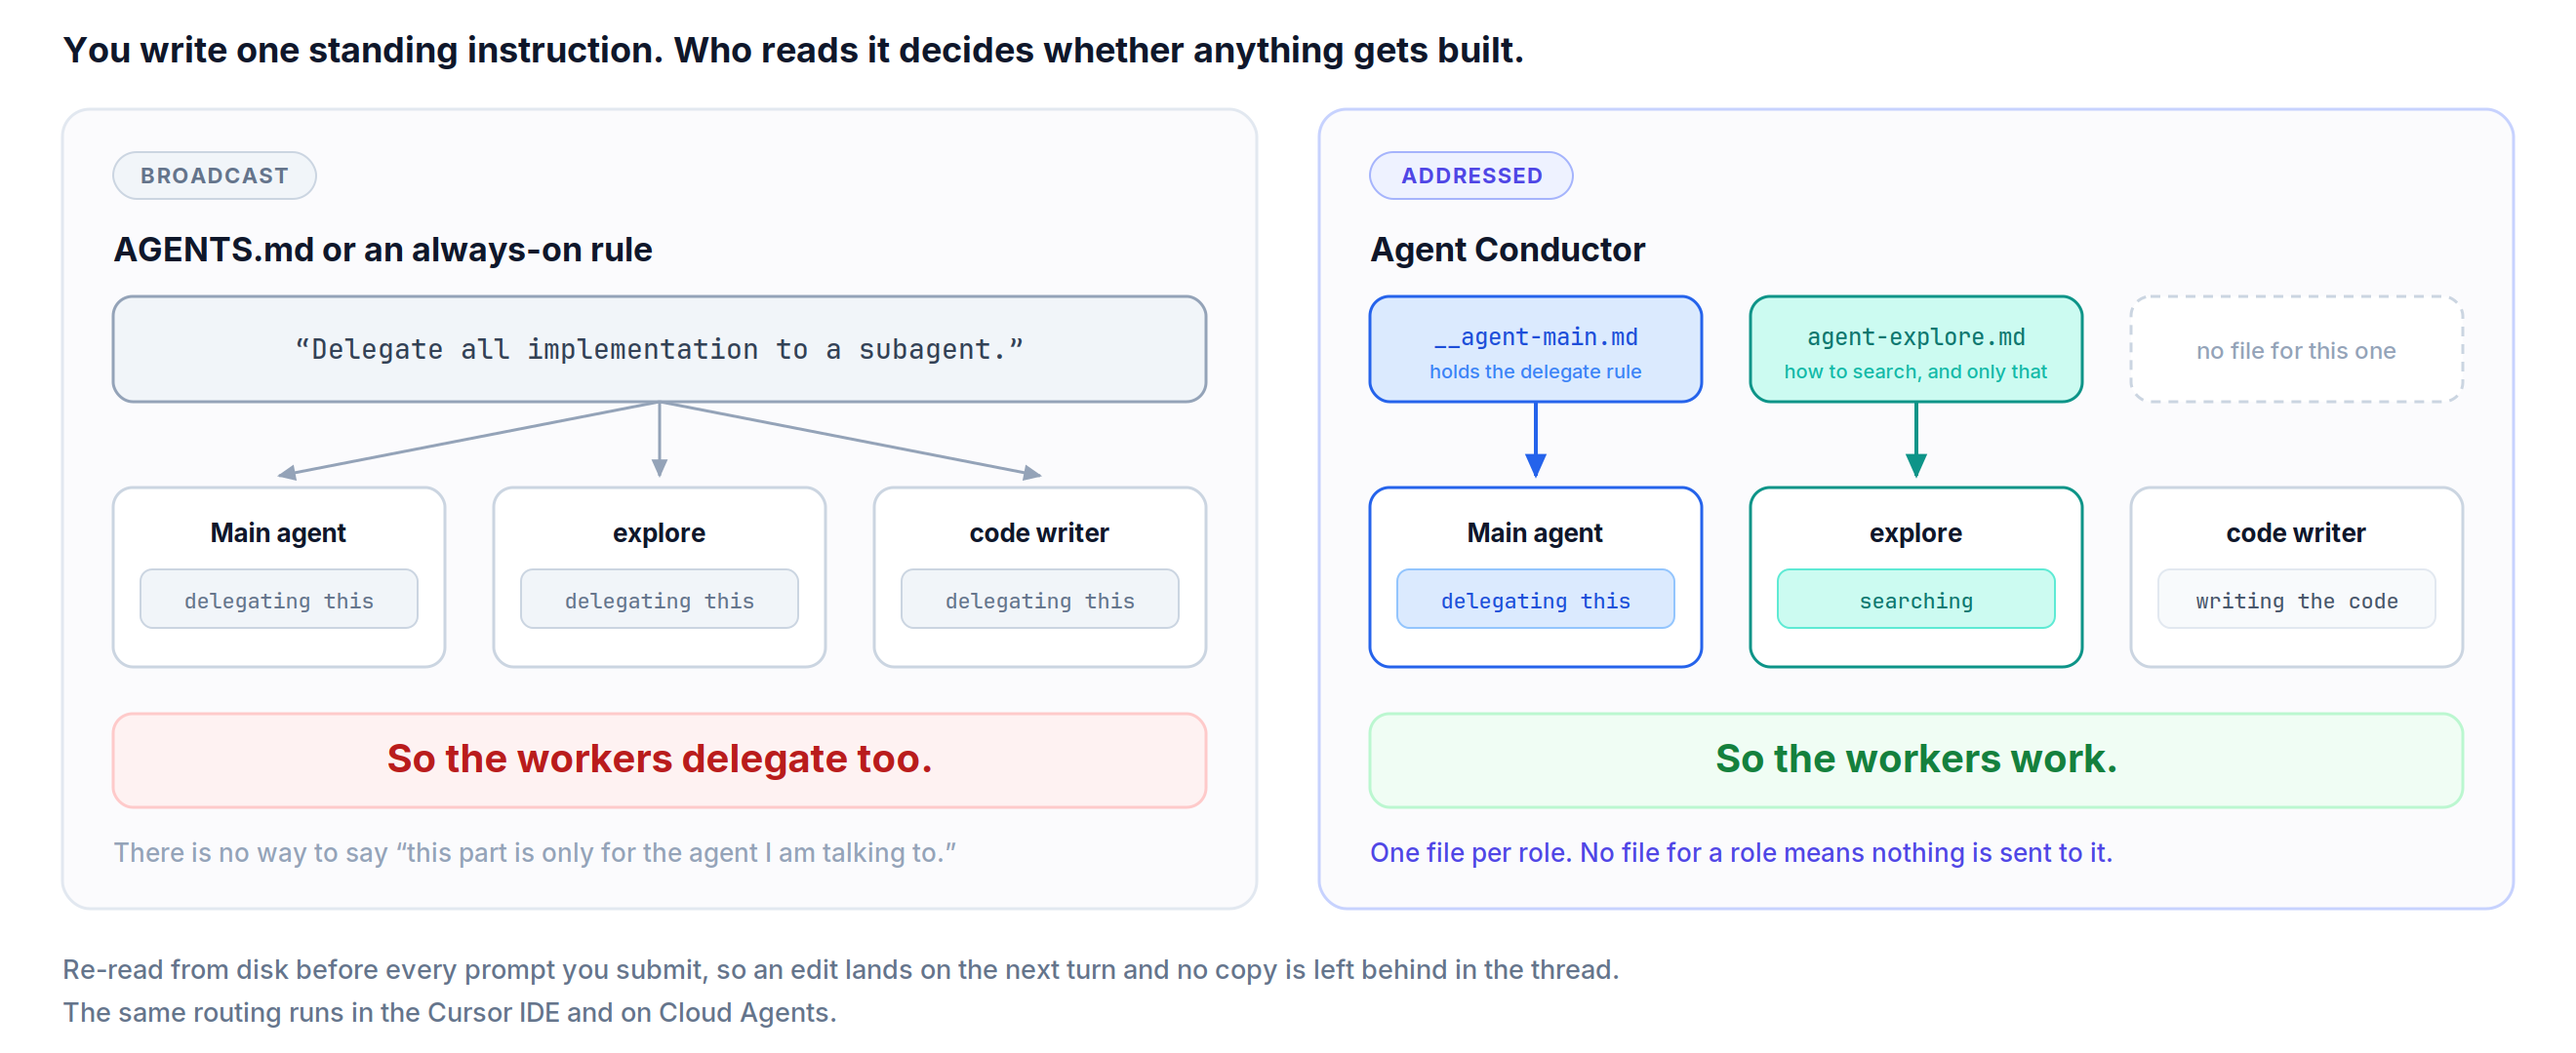
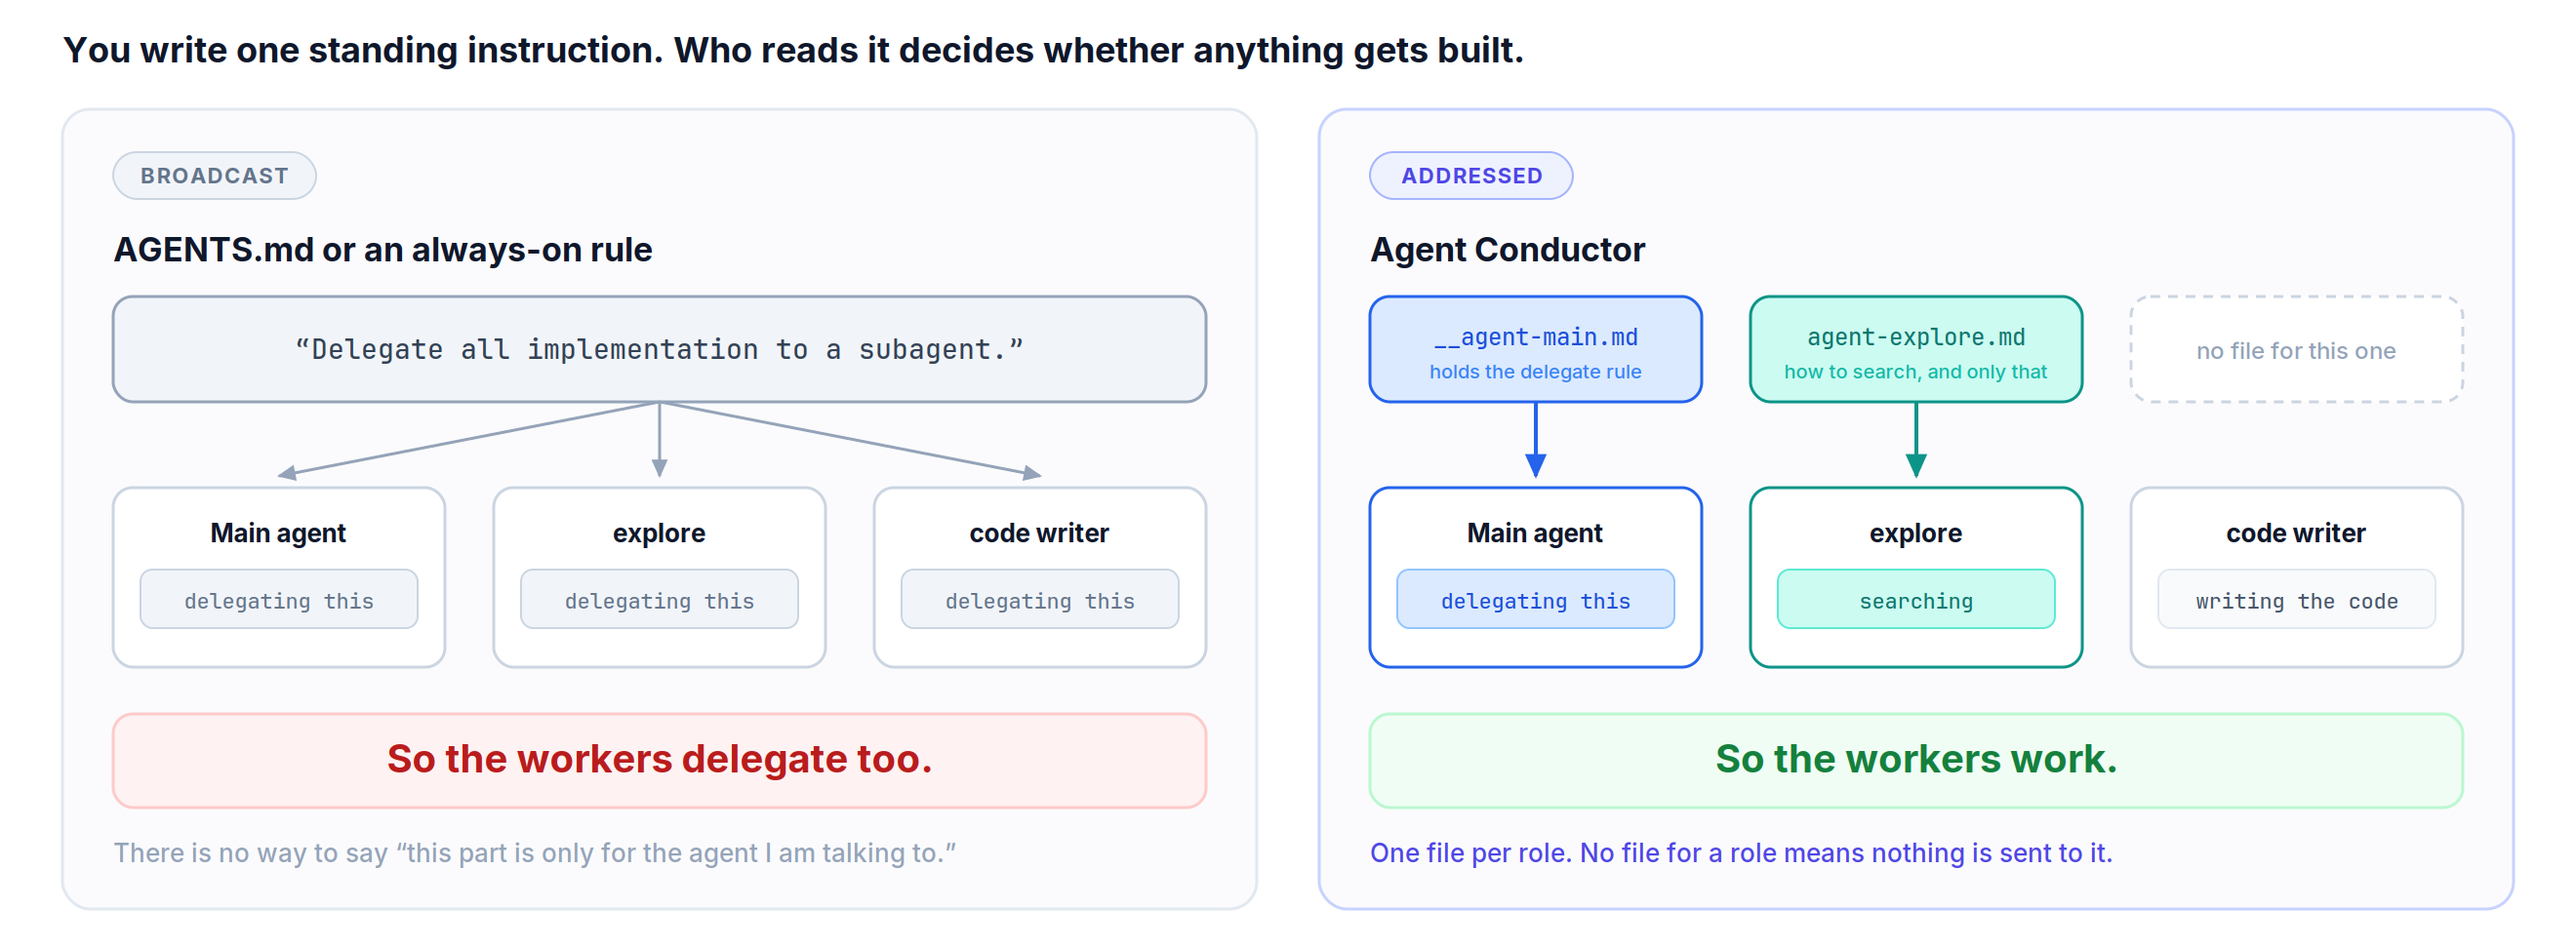
Put the problem in the tagline and strip the unreadable footer
The previous tagline was accurate and inert. A reader who confirmed the
secrecy misread was fixed then named the replacement defect exactly: it states
a mechanism without a motive, so it does no work until the paragraph below
explains why broadcast is bad. The tagline now carries the problem in its
first clause and the fix in its second.

All four readers across the last two rounds flagged the diagram's two grey
footer lines. They restated body copy sitting a few pixels below them, and at
GitHub's render width they are too small to read anyway. Removing them also
takes 54px of dead height out of the hero image.

Six of eight readers tripped on the double underscore in __agent-main.md, so
the pattern agent-<type>.md now comes first and the reserved name reads as the
exception it is rather than an inconsistency.

diff --git a/plugins/agent-conductor/README.md b/plugins/agent-conductor/README.md
@@ -1,6 +1,6 @@
 # Agent Conductor
 
-**Give your main agent a standing prompt that goes to it and no other agent.**
+**Every instruction you write reaches every agent you run. These reach the one you meant.**
 
 Cursor has two places for instructions that apply on every turn, a rule with `alwaysApply` and an `AGENTS.md`. Both are broadcasts. The agent you are talking to reads them. So does every subagent it spawns.
 
@@ -204,8 +204,10 @@ Default show hides thinking; see the footer for optional flags.
 
 | Scrubbed | Detail |
 | --- | --- |
-| Known token formats | `sk-`, `ghp_`, `gho_`, `gha_`, `github_pat_`, `xoxb-` and friends, `ops_`, JWTs |
-| Assignments that name a secret | any `*KEY*`, `*TOKEN*`, `*SECRET*`, `*PASSWORD*`, `*CREDENTIAL*`, `*API*` variable, value replaced with `[REDACTED]` |
+| Known token formats | `crsr_` (Cursor), `sk-` (OpenAI and Anthropic), `sk_live_` and `rk_live_` (Stripe), `ghp_`, `gho_`, `gha_`, `ghr_`, `ghs_`, `ghu_`, `github_pat_`, `npm_`, `xoxb-` and friends, `ops_`, `AKIA` and `ASIA` (AWS key ids), `AIza` (Google), JWTs |
+| Assignments that name a secret | any `*KEY*`, `*TOKEN*`, `*SECRET*`, `*PASSWORD*`, `*CREDENTIAL*`, `*API*` variable, plus lowercase `password=`, value replaced with `[REDACTED]` |
+| Syntax that carries a credential | `Authorization: Bearer`, `Basic` and `token` headers, `--token`, `--api-key`, `--secret` and `--password` style flags, `-u user:password`, and `user:password@host` inside any URL |
+| Private keys | the body of any `-----BEGIN ... PRIVATE KEY-----` block |
 | Fields scanned for secrets | strings nested under `command`, `prompt`, `tool_input`, `tool_output`, `output`, `text`, and `error_message` |
 | File contents | `content` dropped from `beforeReadFile`; `old_string` and `new_string` dropped from `afterFileEdit` edits and top-level `preToolUse` tool input |
 | Read and fetch tool output | replaced with a placeholder |
@@ -213,7 +215,9 @@ Default show hides thinking; see the footer for optional flags.
 | Local identifiers | `session_id`, `workspace_roots` and `transcript_path` deleted, `user_email` cut to the part before the `@` |
 | Long strings | capped at 16384 characters |
 
-Redaction runs recursively over the fields listed above, so matching secrets in shell commands, user prompts, and nested tool arguments are replaced without removing the surrounding text. Other tool argument keys can still carry file bodies, fields outside that list are not scanned, and sensitive text that does not match a known pattern survives. The raw payload dumps under `/tmp/cursor-hook-debug` are also unsanitized. Read each transcript before you commit it.
+Redaction runs recursively over the fields listed above, so matching secrets in shell commands, user prompts, and nested tool arguments are replaced without removing the surrounding text. The rules are deliberately narrow, because a filter that shreds ordinary code and prose destroys the transcript's value as the advisor's only input.
+
+That narrowness has a cost, and these are the shapes known to survive. A token whose prefix is not in the table above and that is not introduced by one of the syntax forms, so a bare vendor key pasted into a prompt on its own. A URL that is itself the credential, such as a Slack incoming webhook or a Sentry DSN. A password glued to a single-letter flag, as in `mysql -pSecret`, because `-p` means port or parents nearly everywhere else. An all-numeric password after `-u user:`, which is skipped so that `docker run -u 1000:1000` survives. Public key material is left alone on purpose, since `ssh-rsa` lines are meant to be shared. Other tool argument keys can still carry file bodies, fields outside the list above are not scanned, and the raw payload dumps under `/tmp/cursor-hook-debug` are unsanitized. Read each transcript before you commit it.
 
 Two things narrow the blast radius. A shipped `.cursorignore` stops agents from reading the `.jsonl` files directly. `beforeShellExecution` denies commands whose job is dumping the environment, meaning `env`, `printenv`, `export -p`, and `cat`-style reads of `.env`. Read that second one as a guardrail rather than a boundary, since it matches command shapes and an agent that wants the file badly enough can spell the read another way.
 

diff --git a/README.md b/README.md
@@ -1,10 +1,10 @@
 # Agent Conductor
 
-**Give your main agent a standing prompt that goes to it and no other agent.**
+**Every instruction you write reaches every agent you run. These reach the one you meant.**
 
 Cursor has two places for instructions that apply on every turn, an `AGENTS.md` and an always-on rule. Both are broadcasts. Put "delegate all implementation to a subagent, never write code in this thread" in either one and the agent you are talking to obeys it. So does every subagent it spawns. Your workers delegate instead of working, and nothing gets built.
 
-Agent Conductor addresses each instruction to one role. The agent you are chatting with reads `__agent-main.md`, and nothing else does. Add `agent-explore.md` and `explore` subagents read that one when they spawn. A role you never write a file for is sent nothing at all.
+Agent Conductor gives each role a file of its own. Subagents read `agent-<type>.md`, so `explore` reads `agent-explore.md`. The agent you are chatting with reads the reserved `__agent-main.md`, and no subagent ever does. A role you write no file for is sent nothing at all.
 
 ![A broadcast rule reaches every agent, so the workers delegate too. Agent Conductor addresses one file per role, so the workers work.](plugins/agent-conductor/docs/addressed-context.png)
 
